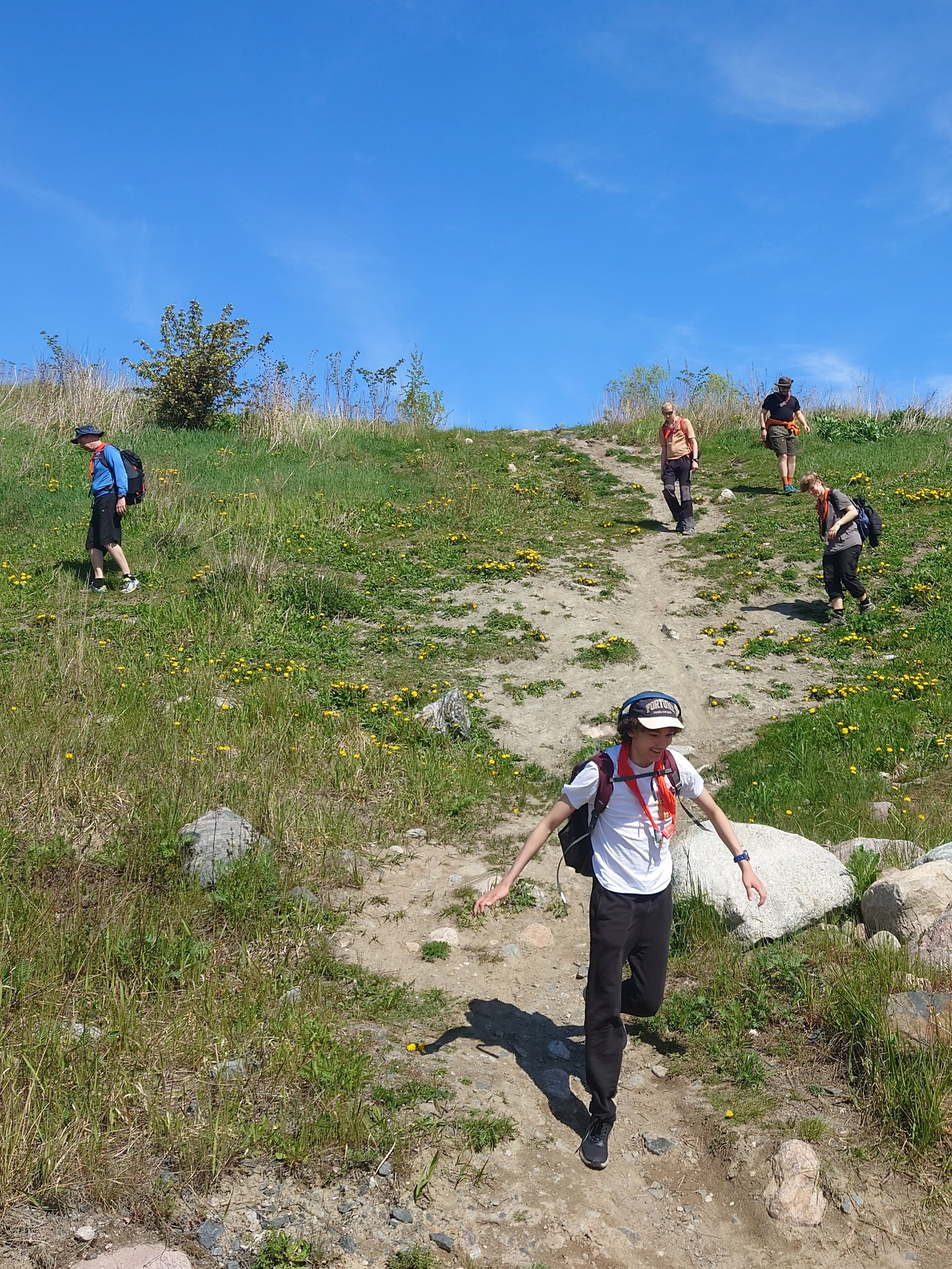
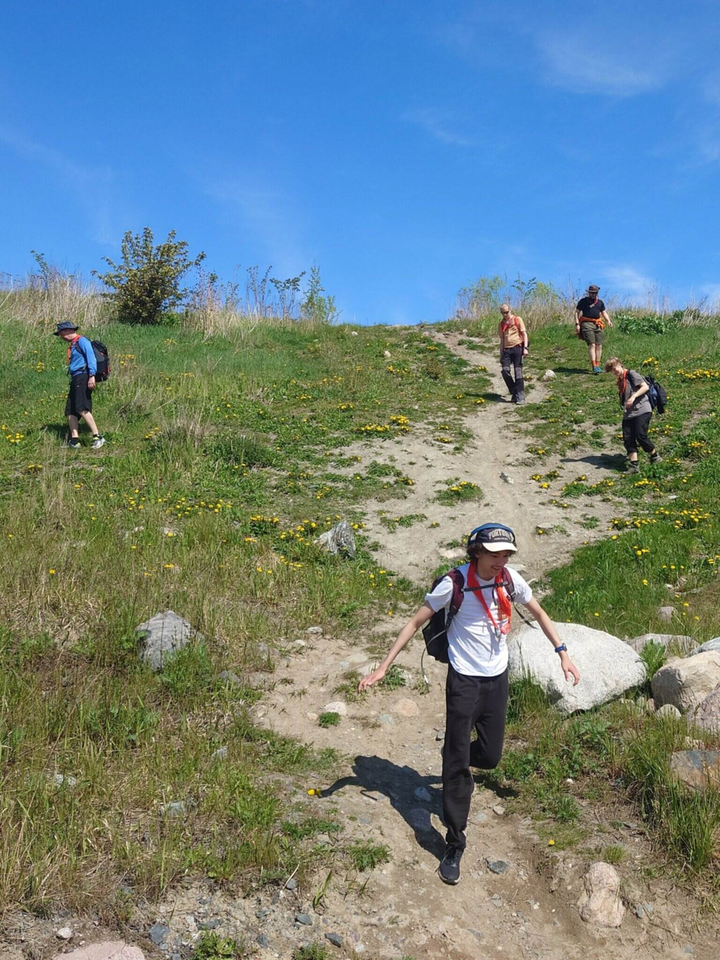
Finish up the Nahkalilja story

diff --git a/chapters/nahkalilja.tex b/chapters/nahkalilja.tex
@@ -1,7 +1,7 @@
 \section{\textit{Punaharmaa ja kahdeksas matkustaja}}
 
 \thispagestyle{empty}
-\ThisCenterWallPaper{1.01}{assets/liljat00}
+\ThisCenterWallPaper{1.01}{assets/no_auto_compression/liljat00}
 
 \begin{figure}[!h]
 \centering\includegraphics[width=\textwidth]{assets/liljaryhma.jpg}
@@ -22,12 +22,13 @@ jutussa pääset lukemaan vartioiden yhdistelmäraportin.}
 \begin{figure*}[!t]
 \centering\includegraphics[width=.475\textwidth]{assets/nahkaliljaHarmaa1}\hfill\includegraphics[width=.475\textwidth]{assets/nahkaliljaHarmaa2}
 \caption{\textit{Harmaa}-vartio taukoilemassa nahkaliljan ensimmäisten 20 kilometrin aikana.}
+	\vspace*{-0.32cm}
 \end{figure*}
 
 \noindent Sateisena lauantain aamuna 17.5 neljä rusakkoa lähti Kontulasta Mikaelinkirkolta kello 6:03 ennakkoluulottomasti kävelemään harmaata nahkaliljaa. Nahkalilja on suoritus, jossa on 24 tunnin aikana käveltävä vaikeusasteen määräämä matka, harmaan liljan tapauksessa 60 kilometriä. Noin kymmenen minuutin kävelyn jälkeen sade lakkasi, mutta ilma oli kostea ja taivas pilvinen vielä jonkin aikaa. Kirkolta rusakot lähtivät kävelemään kohti Linnanpellon viljelypalstoja, mistä jatkettiin Mellunmäen läpi, missä viidennen kilometrin jälkeen pidettiin ensimmäinen tauko.
 
 \thispagestyle{empty}
-\ThisCenterWallPaper{1.01}{assets/liljat01}
+\ThisCenterWallPaper{1.01}{assets/no_auto_compression/liljat01}
 
 Mellunmäestä matka jatkui kaakko-luode suunnassa Rajakylän läpi, kunnes saavuttiin Maratontielle, jota jatkettiin käytännössä sen koko pituus itään, kunnes käännyttiin Länsimäentielle pohjoiseen Kuusisillalle, missä kahden tunnin marssin jälkeen tuli vastaan Porvoonväylän yli menevä reitin ensimmäinen silta. Kuusisillalla tuli täyteen kymmenes kilometri, ja samalla sadas yhteinen kilometri nahkaliljoissa neljälle rusakolle. Kuusisillalta matka jatkui länteen Huoko- ja Suurmetsäntietä pitkin Jakomäen läpi kunnes Alppikylän jälkeen reitti alkoi kääntyä takaisin itään Tattarisuon ympäri, missä pidettiin kolmas tauko.
 
@@ -88,15 +89,27 @@ saapuessa kirkolle \textbf{kello 10.06}. Kirkolla pidettiin vajaan tunnin
 tauko, jonka jälkeen yhdistelmävartio \textit{Punaharmaa ja kahdeksas 
 matkustaja} jatkoi matkaa yhteiselle neljänkymmenen kilometrin kierrokselle. 
 
-{\smallskip\noindent\centering ***\par\smallskip}
+{\noindent\centering ***\par}
+
+\vspace*{-0.16cm}
+\begin{center}
+\includegraphics[width=0.9\linewidth]{assets/liljaVuosaarenhuippu.JPG}
+\end{center}
 
 Kirkolta matkaa jatkettiin itään Kontulan ja Mellunmäen läpi kohti Mustavuorta, missä pidettiin viides tauko kuusistossa. Siitä matka jatkui ylöspäin Vuosaaren huipuille, ensimmäisenä eteläiselle- ja sen jälkeen pohjoiselle huipulle, missä selkeytyneen sään takia maiseman ansiosta useampi tauko peräjälkeen niin, että kun Niinisaarentiellä pidettiin tauko, oltiin jo seitsemännessä. Siitä matka jatkui vartiokylän pohjoispäässä olevan reitin sillan yli, joka oli reitin neljäs. Vartiokylänlahden rantoja jatkettiin länsipuolella aurinkolaiturille asti, missä pidettiin seuraava astetta pidempi tauko kolmannenkymmenennen kilometrin merkiksi.
+
+\smallskip
+\noindent\includegraphics[width=\linewidth]{assets/liljaranta.jpeg}
 
 Siitä matka jatkui lounaaseen Puotilan läpi Strömsinlahden puistoon, missä pidettiin tauko, jonka jälkeen matka jatkui Tammisalon läpi Laajasaloon, jolloin saarten välillä hyppiessä ylitettiin sekä viides että kuudes silta. Laajasalon Alepan edustalla pidettiin seuraava tauko, jonka aikana osa rusakoista osti jäätelöä. Lähes heti tauon jälkeen Tullisaaressa täyteen tuli 40 käveltyä kilometriä. Matka Laajasalosta jatkui Herttoniemen läpi, missä matkaan mahtui reitin seitsemäs silta. Matkalla ohitettiin kahden liljan takainen puolimatkan krouvin pitopaikka, mutta tällä kertaa siinä ei taukoa jääty pitämään, vaan 11. tauko, joka oli ensimmäinen laatuaan noin kuuteen kilometriin, lykättiin Herttoniemen koiliskulmaan, hieman ennen Viikin Arboretumiin siirtymistä.
 
 Pian tämän jälkeen saavuttiin Viikin arboretumiin, jonka rusakot halkaisivat kaakko-luode suunnassa, ja jonka loputtua täyteen tuli harmaan liljan kävelijöiden 50. kilometri, ja Viikintien varrella pidettiin rakonpaikkaustauko jolla käytettiin nyt jo lopussa olevaa urheiluteippirullaa, joka lähdössä oli ollut täysi. Viikintieltä matka jatkui pohjoiseen Vantaanjoen vartta pitkin Pukinmäkeen, missä ylitettiin yhdeksäs silta ensimmäisen kehätien yli, jota seurattiin itään Kivikkoon asti niin, että matkalle mahtui Pukinmäen S-marketin edustalle 14. tauko.
 
 Kivikon Sortti-aseman jäädessä taakse osa suorittajista alkoi jäämään matkasta kotiinpaluun merkeissä. Ensin yksi punaisen liljan suorittaja jätti lippukunnanjohtajan kanssa muun joukon Kivikonlaidan ja Kivikontien liikenneympyrässä, jossa muut jatkoivat pohjoiseen, kävelivät he bussin 560 Kurkimäen pysäkille. Seuraavana toinen punaisen liljan suorittaja hyppäsi Kurkimäentien pysäkillä 57 bussiin, mistä muut jatkoivat maaliin. Mikaelinkirkolle käveli Kivikon läpi ja lippukunnan vanhan kolon ohi Keinulaudantiellä koko harmaan liljan suorittanut osasto, joka lopussa oli kävellyt yhdessä 150 kilometriä nahkaliljoissa, sekä yksi punaisen liljan suorittajista. Reitin viimeinen, eli kymmenes, silta oli Lahdenväylän ylitys Kivikon laitamilla, ja viimeinen, eli 15. tauko pidettiin Kivikon Sortti-aseman edustalla. Loppujenlopuksi kaikki osallistuneet kävelivät matkansa loppuun saakka, ja matkan varrella liljan tunnuskappaleeksi valikoitui TikTakin Mennään minne vaan.
+
+\begin{center}
+{\centering\includegraphics[width=0.9\linewidth]{assets/liljaPain.jpeg}}
+\end{center}
 
 {\smallskip\noindent\centering ***\par\smallskip}
 
@@ -109,9 +122,10 @@ Ilmatieteen laitoksen Kumpulan havaintoasemalla merkittiin vaelluspäivän
 sääksi selkeästä pilviseen, lämpötila 7--14 astetta, lounastuulta, joka 
 kääntyi itätuuleksi, 1--4 metriä sekunnissa ja ilmankosteus 53--98 
 prosenttia -- mitä erinomaisin nahkaliljakeli!
+
+\bigskip
+
+\noindent\null\hfill Kuvat: Janne, Mikko \& Tanguy\\
+\noindent\null\hfill Teksti: Ahti \& Janne
+
 \end{multicols}
-
-\vfill
-
-\noindent\null\hfill Kuvat: Tanguy\\
-\noindent\null\hfill Teksti: Ahti ja Janne

diff --git a/tassu.2025.1.tex b/tassu.2025.1.tex
@@ -23,9 +23,9 @@
 \usepackage{makecell}
 \contourlength{2pt}
 
-% \usepackage{draftwatermark}
-% \SetWatermarkText{\textbf{LUONNOS}}
-% \SetWatermarkScale{1}
+\usepackage{draftwatermark}
+\SetWatermarkText{\textbf{LUONNOS}}
+\SetWatermarkScale{1}
 
 \newenvironment{Figure}
   {\par\medskip\noindent\minipage{\linewidth}}
